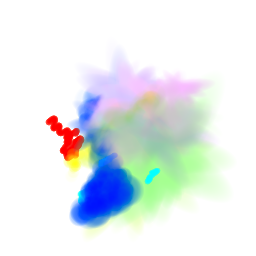
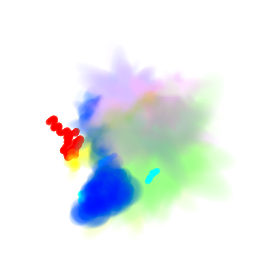
correct a merge-layer issue and low-alpha noise
Due to int->float->int conversions there is noise at
extremely low alpha, so set a min opacity for pigment modes.
Does not affect normal modes

Changed region(s): [[0.625, 0.3125, 0.7812, 0.375], [0.3125, 0.5, 0.375, 0.5938], [0.375, 0.4688, 0.4375, 0.5]]

diff --git a/lib/layer/tree.py b/lib/layer/tree.py
@@ -1951,12 +1951,16 @@ class RootLayerStack (group.LayerStack):
         if not srclayer.visible:
             return data.PaintingLayer(name=srclayer.name)
 
+        if isinstance(srclayer, data.PaintingLayer):
+            if srclayer.mode == lib.mypaintlib.CombineSpectralWGM:
+                return deepcopy(srclayer)
+
         # Backdrops need removing if they combine with this layer's data.
         # Surface-backed layers' tiles can just be used as-is if they're
         # already fairly normal.
         needs_backdrop_removal = True
-        if ((srclayer.mode == lib.mypaintlib.CombineNormal or
-            srclayer.mode == lib.mypaintlib.CombineSpectralWGM) and srclayer.opacity == 1.0):
+        if (srclayer.mode == lib.mypaintlib.CombineNormal
+            and srclayer.opacity == 1.0):
 
             # Optimizations for the tiled-surface types
             if isinstance(srclayer, data.PaintingLayer):

diff --git a/lib/blending.hpp b/lib/blending.hpp
@@ -181,7 +181,7 @@ class BufferCombineFunc <DSTALPHA, BUFSIZE, BlendNormal, CompositeSpectralWGM>
                 rgb_result[3] = (1<<15);
               }
               for (int j=0; j<3; j++) {
-                dst[i+j] =(rgb_result[j] * rgb_result[3]);
+                dst[i+j] =(rgb_result[j] * (rgb_result[3] + 0.5));
               }
               
               if (DSTALPHA) {

diff --git a/lib/tiledsurface.hpp b/lib/tiledsurface.hpp
@@ -84,6 +84,7 @@ public:
   std::vector<double> get_color (double x, double y, double radius) {
     std::vector<double> rgba = std::vector<double>(4, 0.0);
     float r,g,b,a,paint;
+    paint = 1.0;
     mypaint_surface_get_color((MyPaintSurface *)c_surface, x, y, radius,
                               &r, &g, &b, &a, paint);
     rgba[0] = r; rgba[1] = g; rgba[2] = b; rgba[3] = a;
